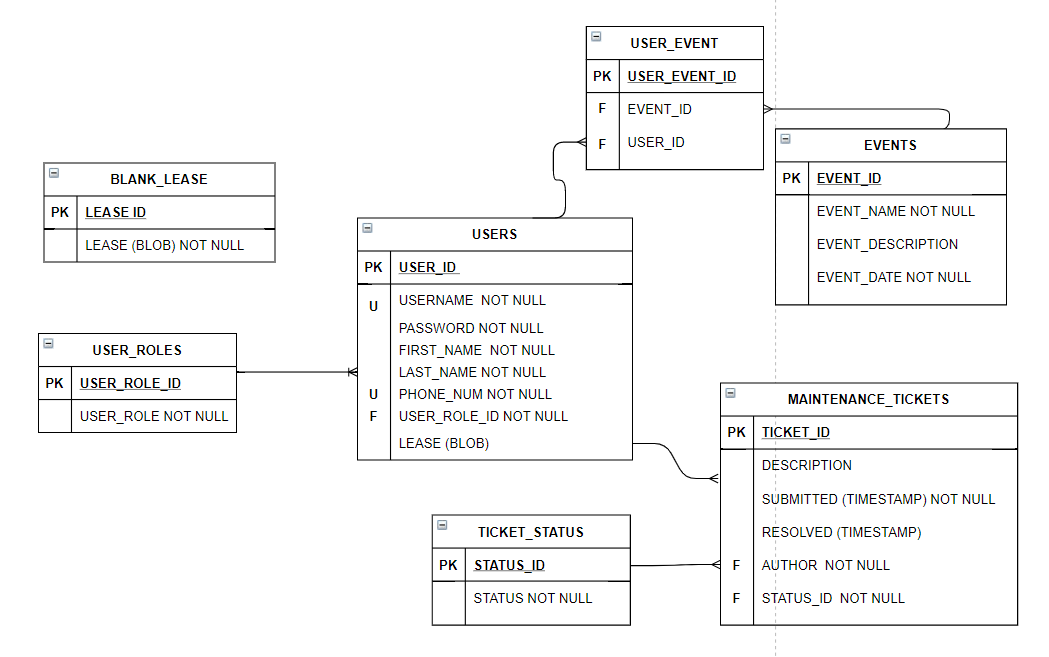
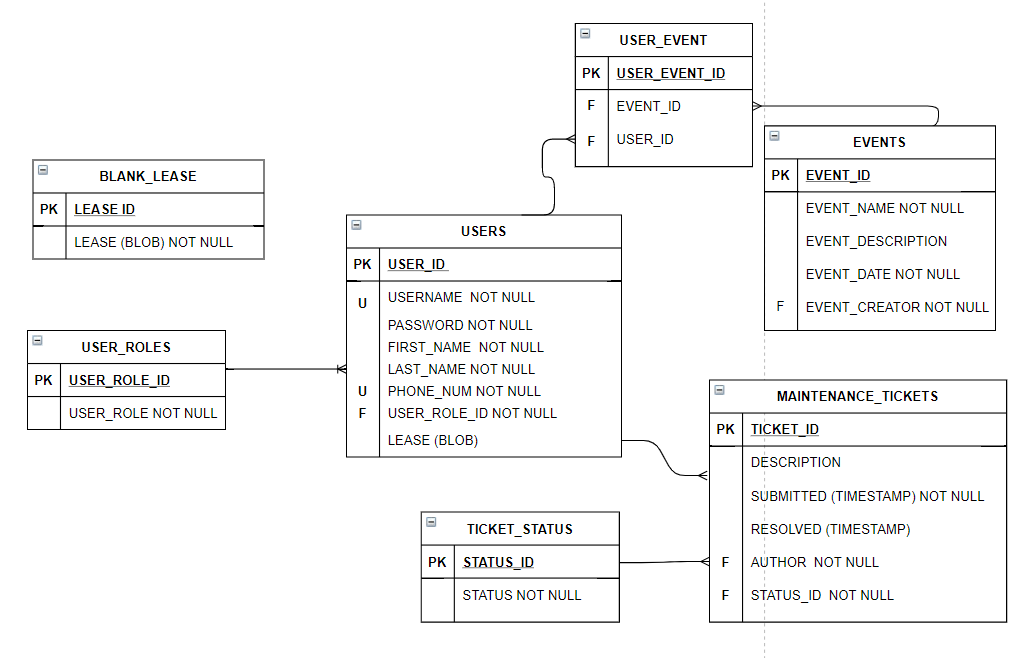
added a eventCreator field

diff --git a/src/main/java/com/revature/models/Event.java b/src/main/java/com/revature/models/Event.java
@@ -6,13 +6,17 @@ import java.sql.Date;
 import java.util.ArrayList;
 import java.util.List;
 
+import javax.persistence.CascadeType;
 import javax.persistence.Column;
 import javax.persistence.Entity;
 import javax.persistence.FetchType;
 import javax.persistence.GeneratedValue;
 import javax.persistence.GenerationType;
 import javax.persistence.Id;
+import javax.persistence.JoinColumn;
+import javax.persistence.JoinTable;
 import javax.persistence.ManyToMany;
+import javax.persistence.ManyToOne;
 import javax.persistence.Table;
 
 @Entity
@@ -31,7 +35,14 @@ public class Event implements Serializable{
 	private String eventDescription;
 	@Column(name="event_date", nullable=false)
 	private Date eventDate;
-	@ManyToMany(mappedBy="eventList")
+	@ManyToOne(fetch=FetchType.EAGER, cascade=CascadeType.ALL)
+	@JoinColumn(name="user_id", nullable=false)
+	private User eventCreator;
+	@ManyToMany(cascade = { CascadeType.ALL })
+	@JoinTable(
+			  name = "event_user", 
+			  joinColumns = @JoinColumn(name = "event_id"), 
+			  inverseJoinColumns = @JoinColumn(name = "user_id"))
 	private List<User> userList = new ArrayList<User>();
 	
 	public Event() {
@@ -40,27 +51,32 @@ public class Event implements Serializable{
 	}
 	
 	//Constructor without id and userList
-	public Event(String eventName, String eventDescription, Date eventDate) {
+	public Event(String eventName, String eventDescription, Date eventDate, User creator) {
 		super();
 		this.eventName = eventName;
 		this.eventDescription = eventDescription;
 		this.eventDate = eventDate;
+		this.eventCreator = creator;
 	}
-
-	public Event(String eventName, String eventDescription, Date eventDate, List<User> userList) {
+	
+	
+	public Event(String eventName, String eventDescription, Date eventDate, User creator, List<User> userList) {
 		super();
 		this.eventName = eventName;
 		this.eventDescription = eventDescription;
 		this.eventDate = eventDate;
+		this.eventCreator = creator;
 		this.userList = userList;
 	}
 
-	public Event(int eventID, String eventName, String eventDescription, Date eventDate, List<User> userList) {
+	public Event(int eventID, String eventName, String eventDescription, Date eventDate, User creator,
+			List<User> userList) {
 		super();
 		this.eventID = eventID;
 		this.eventName = eventName;
 		this.eventDescription = eventDescription;
 		this.eventDate = eventDate;
+		this.eventCreator = creator;
 		this.userList = userList;
 	}
 
@@ -104,10 +120,19 @@ public class Event implements Serializable{
 		this.userList = userList;
 	}
 
+	public User getEventCreator() {
+		return eventCreator;
+	}
+
+	public void setEventCreator(User creator) {
+		this.eventCreator = creator;
+	}
+
 	@Override
 	public int hashCode() {
 		final int prime = 31;
 		int result = 1;
+		result = prime * result + ((eventCreator == null) ? 0 : eventCreator.hashCode());
 		result = prime * result + ((eventDate == null) ? 0 : eventDate.hashCode());
 		result = prime * result + ((eventDescription == null) ? 0 : eventDescription.hashCode());
 		result = prime * result + eventID;
@@ -125,6 +150,11 @@ public class Event implements Serializable{
 		if (getClass() != obj.getClass())
 			return false;
 		Event other = (Event) obj;
+		if (eventCreator == null) {
+			if (other.eventCreator != null)
+				return false;
+		} else if (!eventCreator.equals(other.eventCreator))
+			return false;
 		if (eventDate == null) {
 			if (other.eventDate != null)
 				return false;
@@ -153,7 +183,7 @@ public class Event implements Serializable{
 	@Override
 	public String toString() {
 		return "Event [eventID=" + eventID + ", eventName=" + eventName + ", eventDescription=" + eventDescription
-				+ ", eventDate=" + eventDate + "]";
+				+ ", eventDate=" + eventDate + ", eventCreator=" + eventCreator + ", userList=" + userList + "]";
 	}
 
 	

diff --git a/src/main/java/com/revature/models/User.java b/src/main/java/com/revature/models/User.java
@@ -30,7 +30,7 @@ public class User implements Serializable{
 	@GeneratedValue(strategy = GenerationType.IDENTITY)
 	@Column(name="user_id", nullable=false)
 	private int userID;
-	@Column(name="username", nullable=false)
+	@Column(name="username", nullable=false, unique=true)
 	private String username;
 	@Column(name="password", nullable=false)
 	private String password;
@@ -38,18 +38,14 @@ public class User implements Serializable{
 	private String firstName;
 	@Column(name="last_name", nullable=false)
 	private String lastName;
-	@Column(name="phone_number", nullable=false)
+	@Column(name="phone_number", nullable=false, unique=true)
 	private String phoneNumber;
 	@ManyToOne(fetch=FetchType.EAGER, cascade=CascadeType.ALL)
 	@JoinColumn(name="user_role_id", nullable=false)
 	private Role userRole;
 	@Column(name="signed_lease", nullable=true)
 	private Blob signedLease;
-	@ManyToMany(cascade = { CascadeType.ALL })
-	@JoinTable(
-			  name = "user_event", 
-			  joinColumns = @JoinColumn(name = "user_id"), 
-			  inverseJoinColumns = @JoinColumn(name = "event_id"))
+	@ManyToMany(mappedBy="userList")
 	private List<Event> eventList = new ArrayList<Event>();
 	
 	public User() {

diff --git a/src/main/java/com/revature/Driver.java b/src/main/java/com/revature/Driver.java
@@ -37,9 +37,9 @@ public class Driver {
 		
 		Role r = new Role("Tenant");
 		
-		Event e = new Event("BBQ", "Texas BBQ and fireworks!!!", Date.valueOf("2021-07-04"));
 		User u = new User("hk", pw1, "Hello", "Kitty", "15719992107", r, null);
-		
+		Event e = new Event("BBQ", "Texas BBQ and fireworks!!!", Date.valueOf("2021-07-04"), u);
+				
 		List<Event> eventList = new ArrayList<Event>();
 		List<User> userList = new ArrayList<User>();
 		eventList.add(e);
@@ -51,16 +51,16 @@ public class Driver {
 		IEventDAO eDao = new EventDAO();
 		eDao.addEvent(e);
 		
-		IUserDAO uDao = new UserDAO();
-		uDao.addUser(u);
+//		IUserDAO uDao = new UserDAO();
+//		uDao.addUser(u);
 
-//		Session ses2 = HibernateUtil.getSession();
-//		Transaction trans2 = ses2.beginTransaction();
-//		try {
-//			ses2.save(u);
-//			trans2.commit();
-//		} catch (Exception ex) {
-//			ex.printStackTrace();
-//		}
+		Session ses2 = HibernateUtil.getSession();
+		Transaction trans2 = ses2.beginTransaction();
+		try {
+			ses2.save(u);
+			trans2.commit();
+		} catch (Exception ex) {
+			ex.printStackTrace();
+		}
 	}
 }
